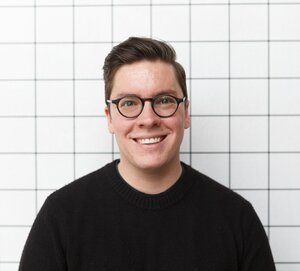
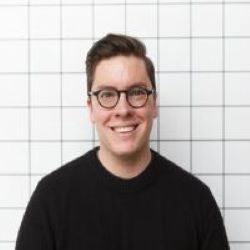
change pic of dan and resize images to reduce distort

diff --git a/index.html b/index.html
@@ -148,14 +148,14 @@
        
         <div class="flex flex-col lg:flex-row flex-no-wrap justify-center">
           <div class="mt-24 w-full lg:w-8/12">
-            <img class="w-64 h-64 mx-auto rounded-full lg:w-48 lg:h-48" src="assets/images/dennisyu.jpg" />
+            <img class="rounded-full mx-auto" src="assets/images/dennisyu.jpg" />
             <p class="mx-2 mt-2 text-center text-4xl text-gray-700 font-semibold lg:text-xl">Dennis Yu</p>
             <p class="text-center text-2xl text-gray-600 lg:text-lg">USC Marshall School of Business</p>
             <div class="flex justify-center items-center mt-2">
             </div>
           </div>
           <div class="mt-24 w-full lg:w-8/12">
-            <img class="w-64 h-64 mx-auto rounded-full lg:w-48 lg:h-48" src="assets/images/matthewmanos.jpg" />
+            <img class="rounded-full mx-auto" src="assets/images/matthewmanos.jpg" />
             <p class="mx-2 mt-2 text-center text-4xl text-gray-700 font-semibold lg:text-xl">Matthew Manos</p>
             <p class="text-center text-2xl text-gray-600 lg:text-lg">USC Iovine and Young Academy</p>
             <div class="flex justify-center items-center mt-2">
@@ -163,7 +163,7 @@
           </div>
 
           <div class="mt-24 w-full lg:w-8/12">
-            <img class="w-64 h-64 mx-auto rounded-full lg:w-48 lg:h-48" src="assets/images/danwadhwani.jpg" />
+            <img class="rounded-full mx-auto" src="assets/images/danwadhwani.jpg" />
             <p class="mx-2 mt-2 text-center text-4xl text-gray-700 font-semibold lg:text-xl">Dan Wadhwani</p>
             <p class="text-center text-2xl text-gray-600 lg:text-lg">USC Lloyd Greif Center for Entrepreneurial Studies</p>
             <div class="flex justify-center items-center mt-2">
